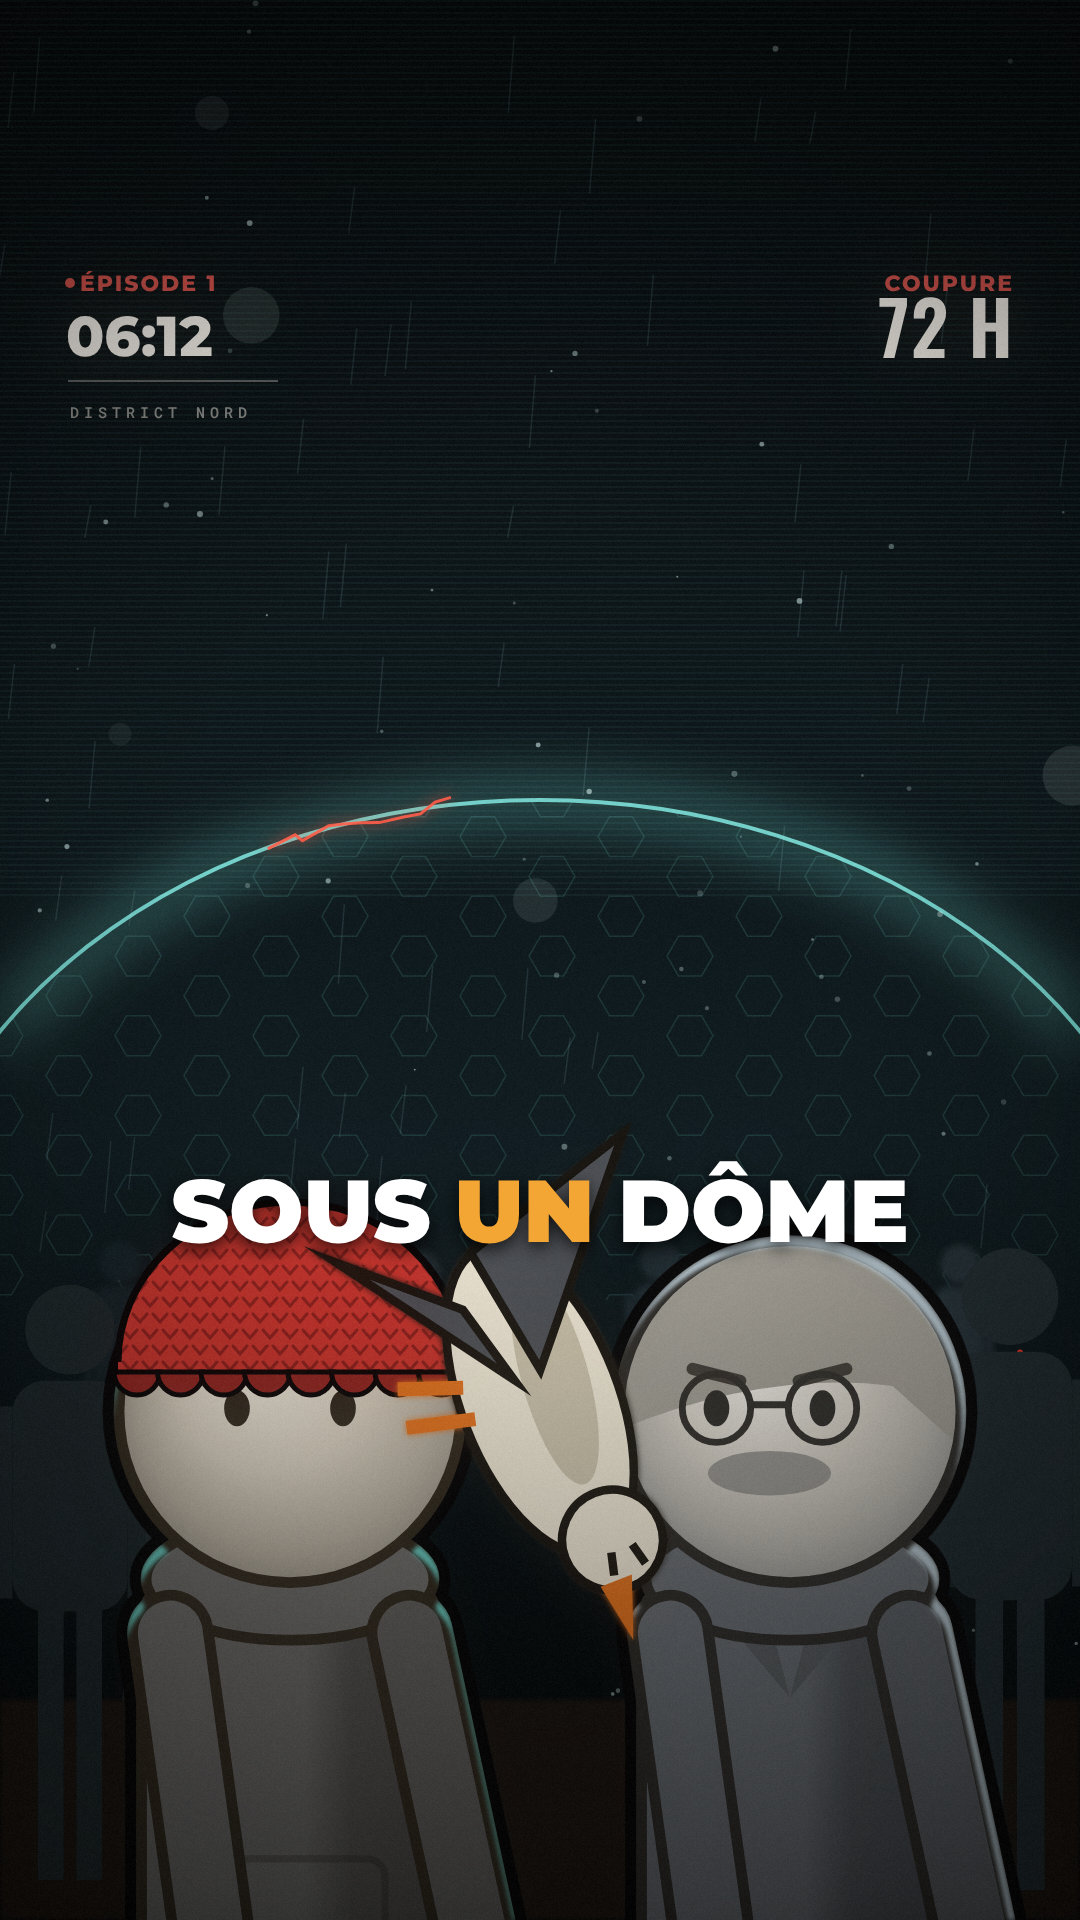
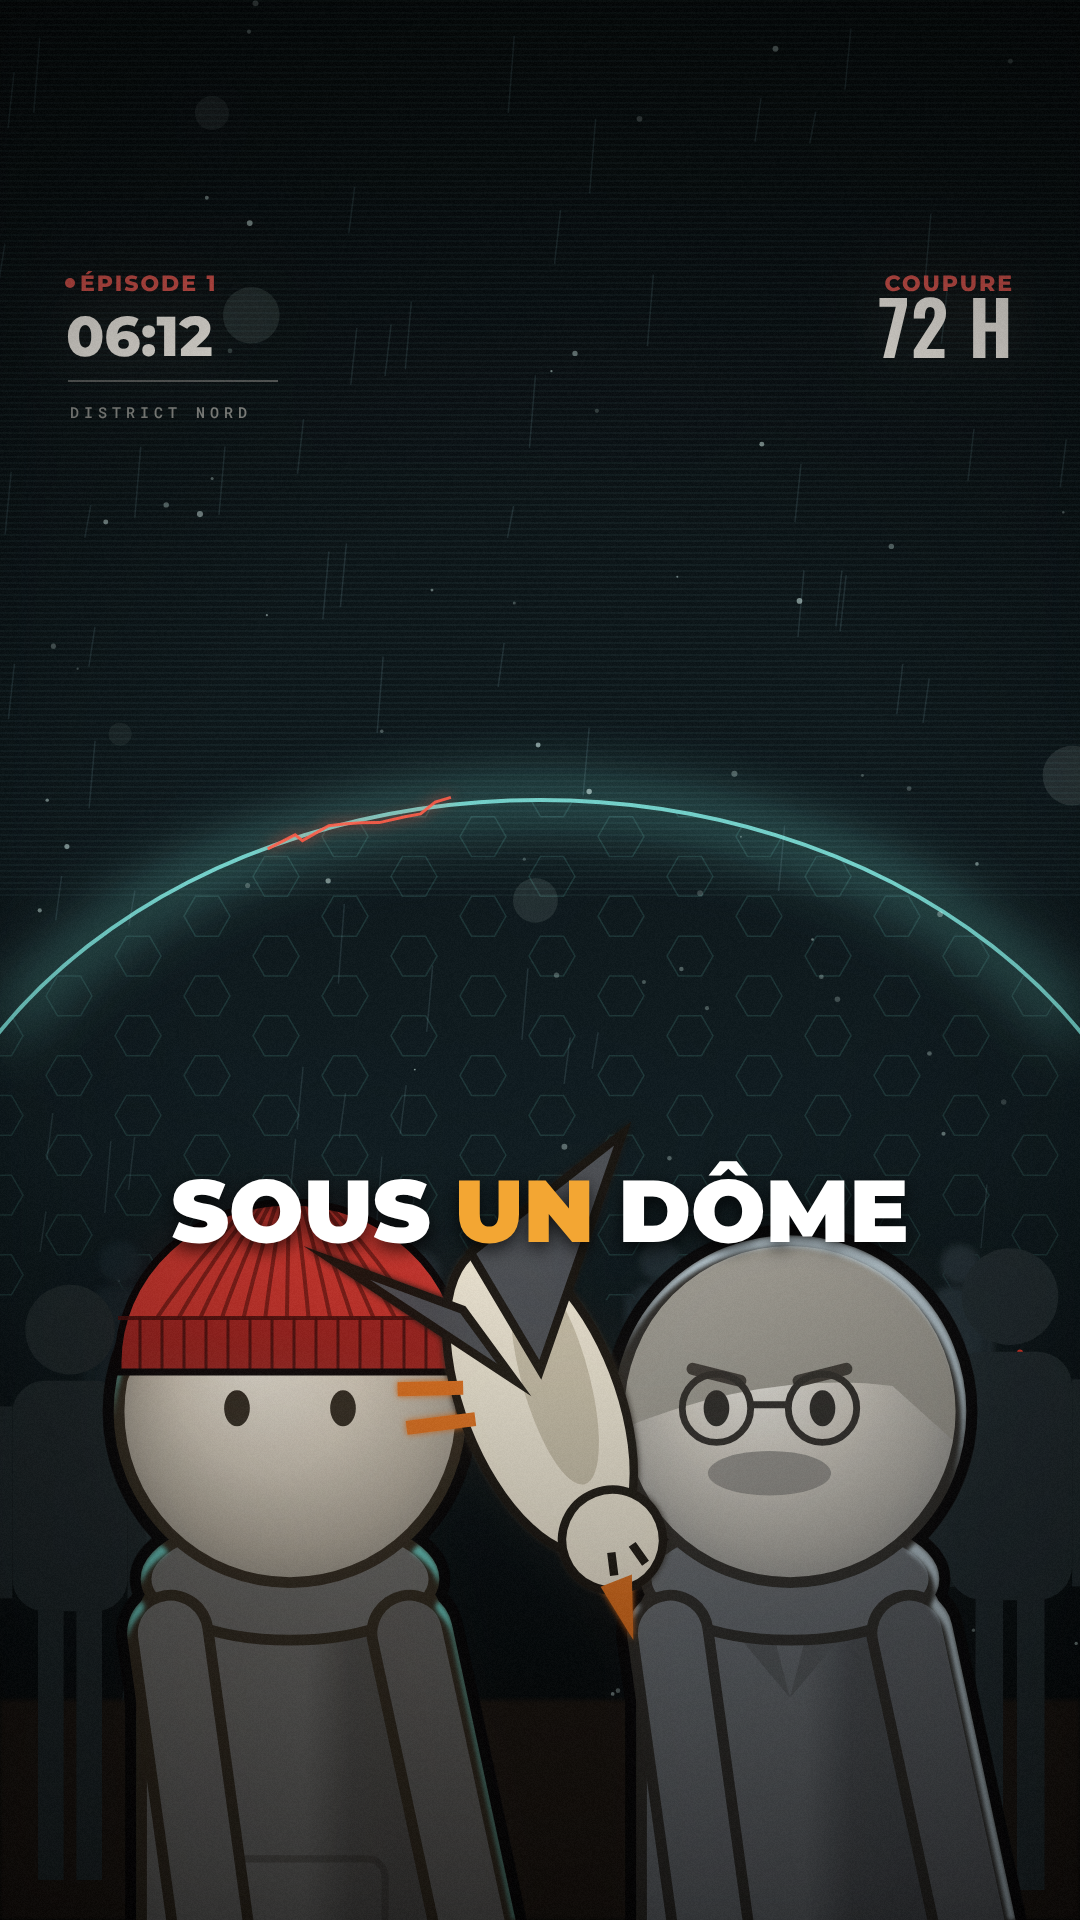
couronne-ep01 : bonnet du fils — revers replié avec côtes verticales, côtes convergeant vers le sommet, couleurs rouge foncé
Claude-Session: https://claude.ai/code/session_0151hKPePi5KPXjL7mUCuxno

Changed region(s): [[0.0917, 0.625, 0.4278, 0.75]]

diff --git a/productions/couronne-ep01/rendu_v3/scenes.js b/productions/couronne-ep01/rendu_v3/scenes.js
@@ -772,16 +772,17 @@ S.p02h_buste_vivant = g => {                              // image 2 v13
   crowdStanding(g);
   actor(g, 790, 2650, 1.8, { ...PERE, body: "#5d6166", bodyDark: "#383b40", ring: "#5d6166", ringW: 80, torsoW: 165, look: -0.12, arms: [[-1, 10], [1, 10]] }, { rim: "#cfe3ee", rimAng: -1.2, rimW: 7, key: "#dfe9ef", shadow: false });   // père, côté droit
   actor(g, 290, 2650, 1.8, { ...HERO, body: "#5d6166", bodyDark: "#383b40", ring: "#5d6166", ringW: 80, strings: false, torsoW: 165, look: 0.0, arms: [[-1, 10], [1, 10]] }, { rim: TEAL, rimAng: -1.57, rimW: 7, key: "#ffd9a0", shadow: false });
-  // bonnet rouge en maille : points en V sur la calotte, bord côtelé dentelé, contour noir
-  g.save(); g.beginPath(); g.ellipse(290, 1362, 172, 160, 0, Math.PI, 2 * Math.PI); g.lineTo(462, 1372); g.lineTo(118, 1372); g.closePath();
-  g.fillStyle = "#c4342d"; g.fill(); g.clip();
-  g.strokeStyle = "rgba(96,20,18,0.6)"; g.lineWidth = 3; g.lineCap = "round";
-  for (let r = 0; r < 12; r++) { const y = 1190 + r * 16; for (let c = -1; c < 19; c++) { const x = 100 + c * 20 + (r % 2) * 10;
-    g.beginPath(); g.moveTo(x - 7, y - 4); g.lineTo(x, y + 4); g.lineTo(x + 7, y - 4); g.stroke(); } }
+  // bonnet rouge replié : calotte à côtes qui convergent vers le haut, revers replié en bas (côtes plus foncées)
+  const dome = () => { g.beginPath(); g.ellipse(290, 1362, 172, 160, 0, Math.PI, 2 * Math.PI); g.lineTo(462, 1372); g.lineTo(118, 1372); g.closePath(); };
+  g.save(); dome(); g.fillStyle = "#c4342d"; g.fill(); g.clip();
+  g.strokeStyle = "rgba(110,24,20,0.9)"; g.lineWidth = 4; g.lineCap = "round";
+  for (let k = 0; k <= 12; k++) { const x0 = 118 + k * 28; g.beginPath(); g.moveTo(x0, 1380); g.quadraticCurveTo(x0 + (290 - x0) * 0.4, 1260, 290 + (x0 - 290) * 0.08, 1180); g.stroke(); }   // côtes qui rejoignent le sommet
+  g.fillStyle = "#9c2420"; g.fillRect(100, 1318, 380, 60);                                               // revers replié
+  g.strokeStyle = "rgba(70,14,12,0.9)"; g.lineWidth = 3;
+  for (let k = 0; k <= 16; k++) { const x0 = 118 + k * 22; g.beginPath(); g.moveTo(x0, 1318); g.lineTo(x0, 1378); g.stroke(); }   // côtes du revers
   g.restore();
-  g.strokeStyle = "#050405"; g.lineWidth = 7; g.beginPath(); g.ellipse(290, 1362, 172, 160, 0, Math.PI, 2 * Math.PI); g.stroke();
-  g.fillStyle = "#8e2420"; g.strokeStyle = "#050405"; g.lineWidth = 5;
-  for (let k = 0; k < 8; k++) { g.beginPath(); g.arc(137 + k * 43.5, 1372, 23, 0, Math.PI); g.closePath(); g.fill(); g.stroke(); }   // bord côtelé dentelé
+  g.strokeStyle = "#050405"; g.lineWidth = 7; dome(); g.stroke();
+  g.strokeStyle = "rgba(70,14,12,0.9)"; g.lineWidth = 4; g.beginPath(); g.moveTo(118, 1318); g.lineTo(462, 1318); g.stroke();   // pli du revers
   pigeon(g, 540, 1400, 2.8, 1.2, 3);
   pigeon(g, 540, 1400, 2.8, 1.2, 0);
   hud(g); finish(g, { bloom: 0.08, grade: ["#000000", "#ffd9a0", 0.03] }); caption(g, ["SOUS", "UN", "DÔME"], 1);
@@ -795,16 +796,17 @@ S.p02i_sol_vivant = g => {                                // image 3 v13
   actor(g, 790, 2650, 1.8, { ...PERE, body: "#5d6166", bodyDark: "#383b40", ring: "#5d6166", ringW: 80, torsoW: 165, look: -0.12, arms: [[-1, 10], [1, 10]] }, { rim: "#cfe3ee", rimAng: -1.2, rimW: 7, key: "#dfe9ef", shadow: false });   // père, côté droit
   actor(g, 290, 2650, 1.8, { ...HERO, body: "#5d6166", bodyDark: "#383b40", ring: "#5d6166", ringW: 80, strings: false, torsoW: 165, look: 0.0, arms: [[-1, 10], [1, 10]] }, { rim: TEAL, rimAng: -1.57, rimW: 7, key: "#ffd9a0", shadow: false });
   g.fillStyle = "rgba(0,0,0,0.4)"; g.beginPath(); g.ellipse(880, 1852, 90, 12, 0, 0, 7); g.fill();
-  // bonnet rouge en maille : points en V sur la calotte, bord côtelé dentelé, contour noir
-  g.save(); g.beginPath(); g.ellipse(290, 1362, 172, 160, 0, Math.PI, 2 * Math.PI); g.lineTo(462, 1372); g.lineTo(118, 1372); g.closePath();
-  g.fillStyle = "#c4342d"; g.fill(); g.clip();
-  g.strokeStyle = "rgba(96,20,18,0.6)"; g.lineWidth = 3; g.lineCap = "round";
-  for (let r = 0; r < 12; r++) { const y = 1190 + r * 16; for (let c = -1; c < 19; c++) { const x = 100 + c * 20 + (r % 2) * 10;
-    g.beginPath(); g.moveTo(x - 7, y - 4); g.lineTo(x, y + 4); g.lineTo(x + 7, y - 4); g.stroke(); } }
+  // bonnet rouge replié : calotte à côtes qui convergent vers le haut, revers replié en bas (côtes plus foncées)
+  const dome = () => { g.beginPath(); g.ellipse(290, 1362, 172, 160, 0, Math.PI, 2 * Math.PI); g.lineTo(462, 1372); g.lineTo(118, 1372); g.closePath(); };
+  g.save(); dome(); g.fillStyle = "#c4342d"; g.fill(); g.clip();
+  g.strokeStyle = "rgba(110,24,20,0.9)"; g.lineWidth = 4; g.lineCap = "round";
+  for (let k = 0; k <= 12; k++) { const x0 = 118 + k * 28; g.beginPath(); g.moveTo(x0, 1380); g.quadraticCurveTo(x0 + (290 - x0) * 0.4, 1260, 290 + (x0 - 290) * 0.08, 1180); g.stroke(); }   // côtes qui rejoignent le sommet
+  g.fillStyle = "#9c2420"; g.fillRect(100, 1318, 380, 60);                                               // revers replié
+  g.strokeStyle = "rgba(70,14,12,0.9)"; g.lineWidth = 3;
+  for (let k = 0; k <= 16; k++) { const x0 = 118 + k * 22; g.beginPath(); g.moveTo(x0, 1318); g.lineTo(x0, 1378); g.stroke(); }   // côtes du revers
   g.restore();
-  g.strokeStyle = "#050405"; g.lineWidth = 7; g.beginPath(); g.ellipse(290, 1362, 172, 160, 0, Math.PI, 2 * Math.PI); g.stroke();
-  g.fillStyle = "#8e2420"; g.strokeStyle = "#050405"; g.lineWidth = 5;
-  for (let k = 0; k < 8; k++) { g.beginPath(); g.arc(137 + k * 43.5, 1372, 23, 0, Math.PI); g.closePath(); g.fill(); g.stroke(); }   // bord côtelé dentelé
+  g.strokeStyle = "#050405"; g.lineWidth = 7; dome(); g.stroke();
+  g.strokeStyle = "rgba(70,14,12,0.9)"; g.lineWidth = 4; g.beginPath(); g.moveTo(118, 1318); g.lineTo(462, 1318); g.stroke();   // pli du revers
   pigeon(g, 560, 1860, 2.0, 1.45, 0);
   hud(g); finish(g, { bloom: 0.08, grade: ["#000000", "#ffd9a0", 0.03] }); caption(g, ["MAGNÉTIQUE."], 0);
 };
